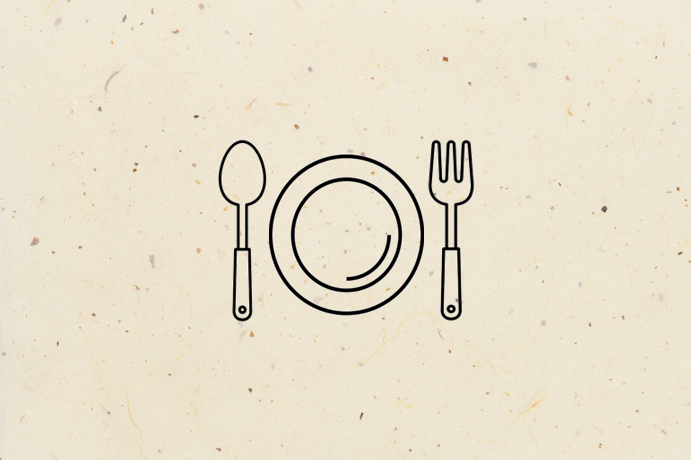
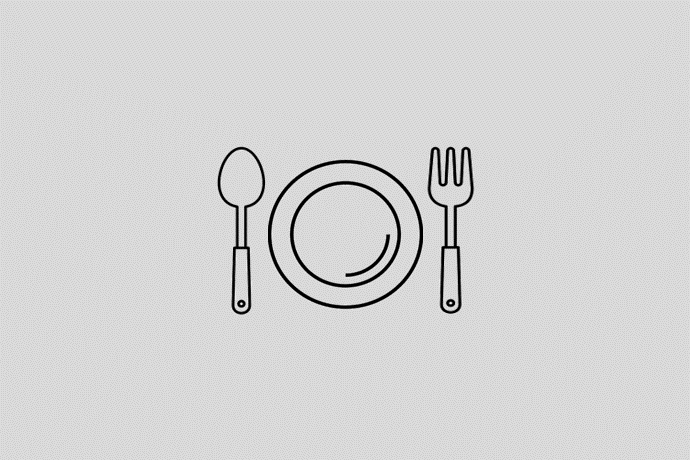
250205 지숙(관광/식당/숙소 이미지 수정)

Changed region(s): [[0.0, 0.0, 1.0, 1.0]]

diff --git a/src/Style/MainStyled.jsx b/src/Style/MainStyled.jsx
@@ -4,6 +4,9 @@ import { ScrollBar } from "../Component/ButtonComponent";
 import searchCate1 from "../Img/cateimg/cate_tour.png";
 import searchCate2 from "../Img/cateimg/cate_lodgin.png";
 import searchCate3 from "../Img/cateimg/cate_restaurant.png";
+import searchCate1Mobile from "../Img/cateimg/cate_tour_mobile.png";
+import searchCate2Mobile from "../Img/cateimg/cate_lodgin_mobile.png";
+import searchCate3Mobile from "../Img/cateimg/cate_restaurant_mobile.png";
 
 export const MainBox = styled.div`
   display: grid;
@@ -170,6 +173,20 @@ export const CateButton = styled.button`
         return "url(/img/cateimg/cate_tour.png)";
     }
   }};
+  @media (max-width: 550px) {
+    background-image: ${({ type }) => {
+      switch (type) {
+        case "100":
+          return `url(${searchCate1Mobile})`;
+        case "200":
+          return `url(${searchCate2Mobile})`;
+        case "300":
+          return `url(${searchCate3Mobile})`;
+        default:
+          return "url(/img/cateimg/cate_tour_mobile.png)";
+      }
+    }};
+  }
 
   /* hover 시 배경 어두워지기 */
   &::before {
